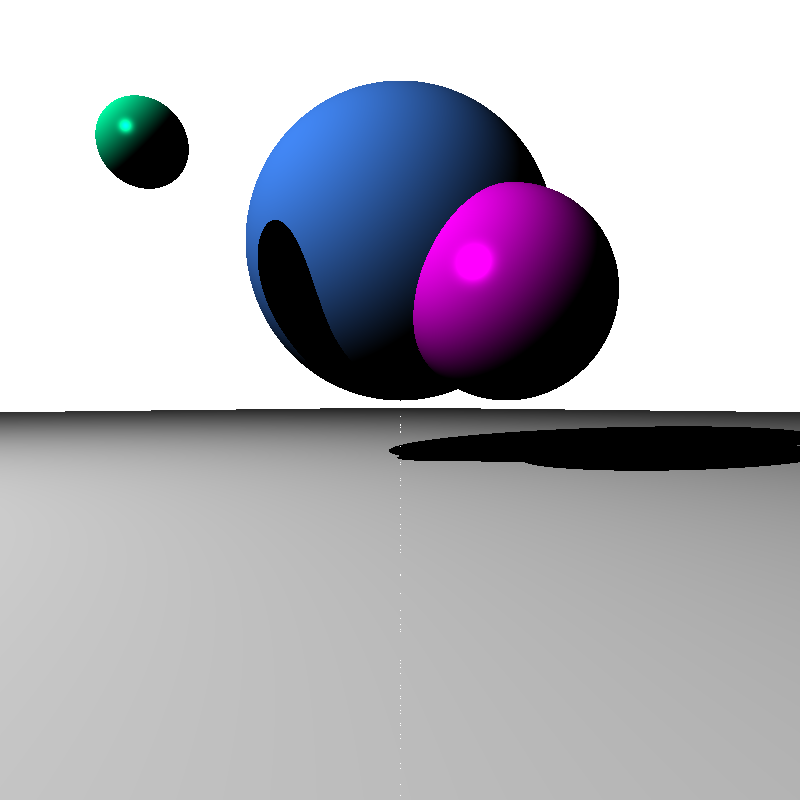
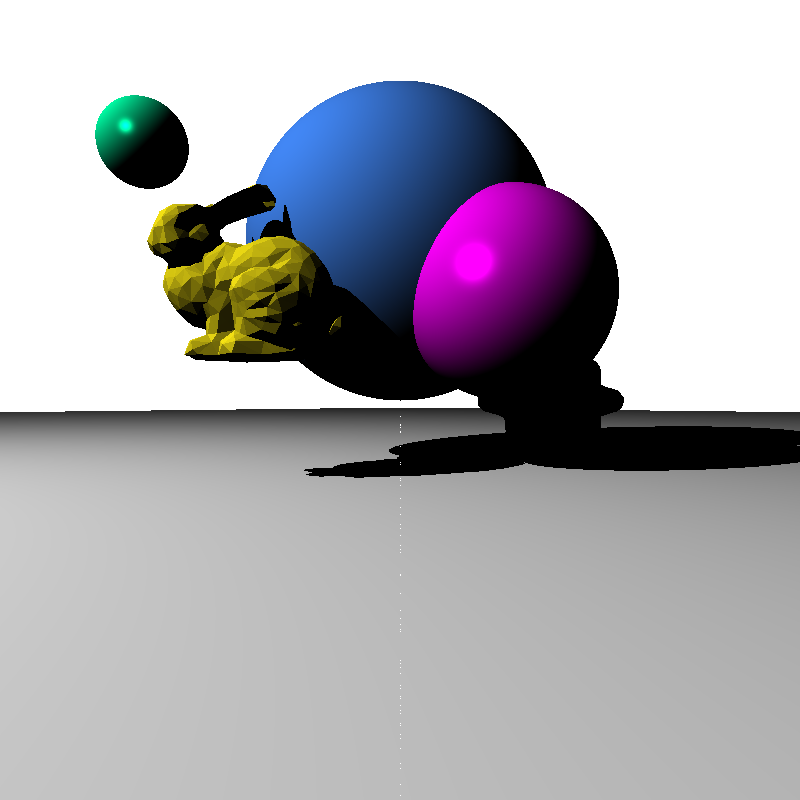
Images and Readme update

Changed region(s): [[0.1875, 0.2188, 0.5, 0.4688], [0.375, 0.4375, 0.7812, 0.5938]]

diff --git a/Assignment_1/README.md b/Assignment_1/README.md
@@ -1,19 +1,19 @@
-# Task 1.1
+# Shading Spheres - Orthographic Projection
 <img src="img/task1_1.png" width="500">
 
-# Task 1.2
+# Ambient, Diffuse, and Specular Lighting - Orthographic Projection
 <img src="img/task1_2.png" width="500">
 
-# Task 1.3
+# Perspective Projection
 <img src="img/task1_3.png" width="500">
 
-# Task 1.4
-<img src="img/task1_4_6-6 square view.png" width="500">
+# Triangular Meshes
+<img src="img/task1_4.png" width="500">
 
-# Task 1.5
+# Shadows
 <img src="img/task1_5.png" width="500">
 
-# Task 1.6
+# Ground Plane Mirror
 <img src="img/task1_6.png" width="500">
 
 # Challenges
